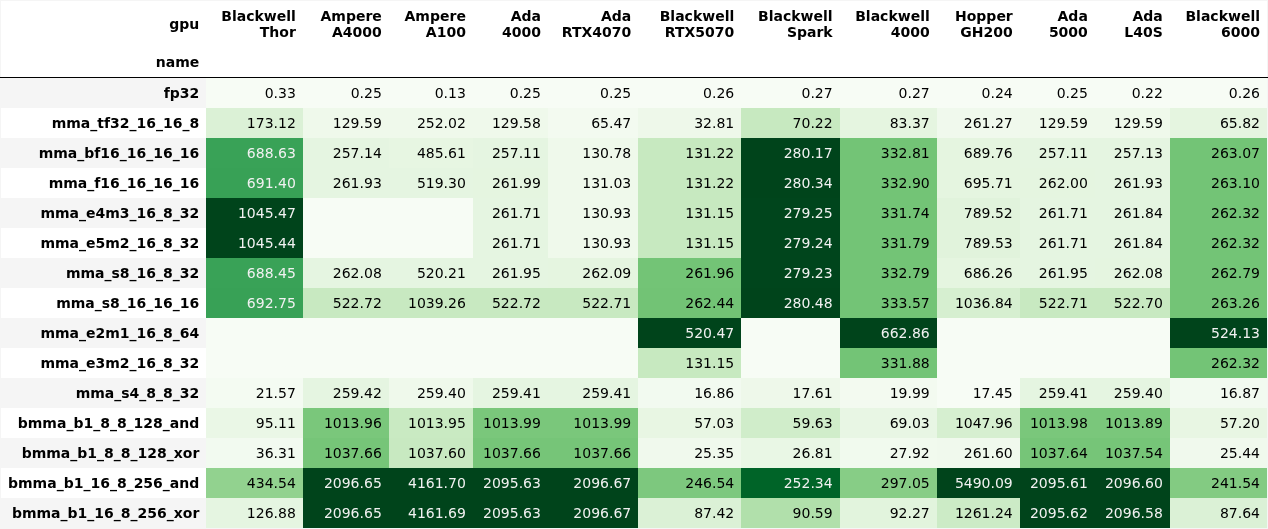
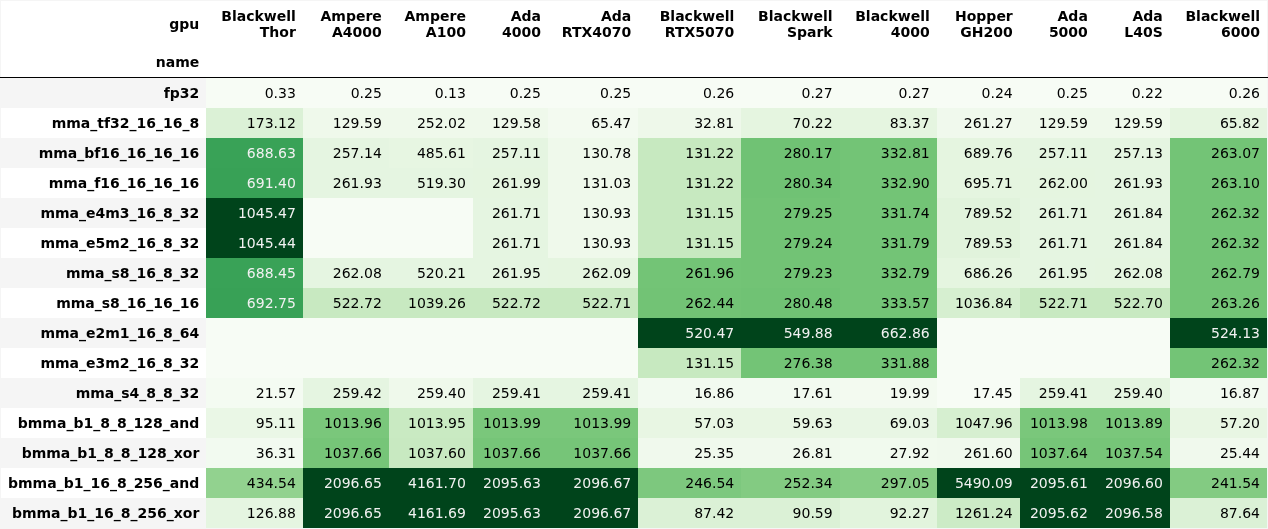
Add FP4/FP6 mma results for Blackwell Spark (GB10)
Enabled by astron-rd/cudapeak#24: sm_121 needs the a-suffix for the
block_scale instructions. Measured on spark02, 3 runs, best first:
e2m1 498.6 TOps, e3m2 250.6 TOps. Consistent ladder with fp8 253 and
fp16 127. Thor (sm_110) has no warp-level block_scale and stays blank.

Changed region(s): [[0.5844, 0.1815, 0.6767, 0.7259], [0.5844, 0.8771, 0.6767, 0.9981], [0.5844, 0.7561, 0.6767, 0.8469]]

diff --git a/README.md b/README.md
@@ -174,7 +174,7 @@ Measured in teraoperations per second (TOPs), showing raw computational throughp
       <td>0.000000</td>
       <td>0.000000</td>
       <td>490.279085</td>
-      <td>0.000</td>
+      <td>498.605</td>
       <td>744.9430</td>
       <td>0.000000</td>
       <td>0.000000</td>
@@ -189,7 +189,7 @@ Measured in teraoperations per second (TOPs), showing raw computational throughp
       <td>0.000000</td>
       <td>0.000000</td>
       <td>123.546600</td>
-      <td>0.000</td>
+      <td>250.611</td>
       <td>372.9740</td>
       <td>0.000000</td>
       <td>0.000000</td>
@@ -444,7 +444,7 @@ Operations per cycle, showing how performance scales across different data types
       <td>0.0</td>
       <td>0.0</td>
       <td>520.46612</td>
-      <td>0.0</td>
+      <td>549.881445</td>
       <td>662.862037</td>
       <td>0.0</td>
       <td>0.0</td>
@@ -459,7 +459,7 @@ Operations per cycle, showing how performance scales across different data types
       <td>0.0</td>
       <td>0.0</td>
       <td>131.153503</td>
-      <td>0.0</td>
+      <td>276.383788</td>
       <td>331.878151</td>
       <td>0.0</td>
       <td>0.0</td>
@@ -545,4 +545,4 @@ Operations per cycle, showing how performance scales across different data types
 </table>
 </details>
 
-*Report generated on 2026-11-18 18:55 UTC*
+*Report generated on 2026-11-19 09:32 UTC*
